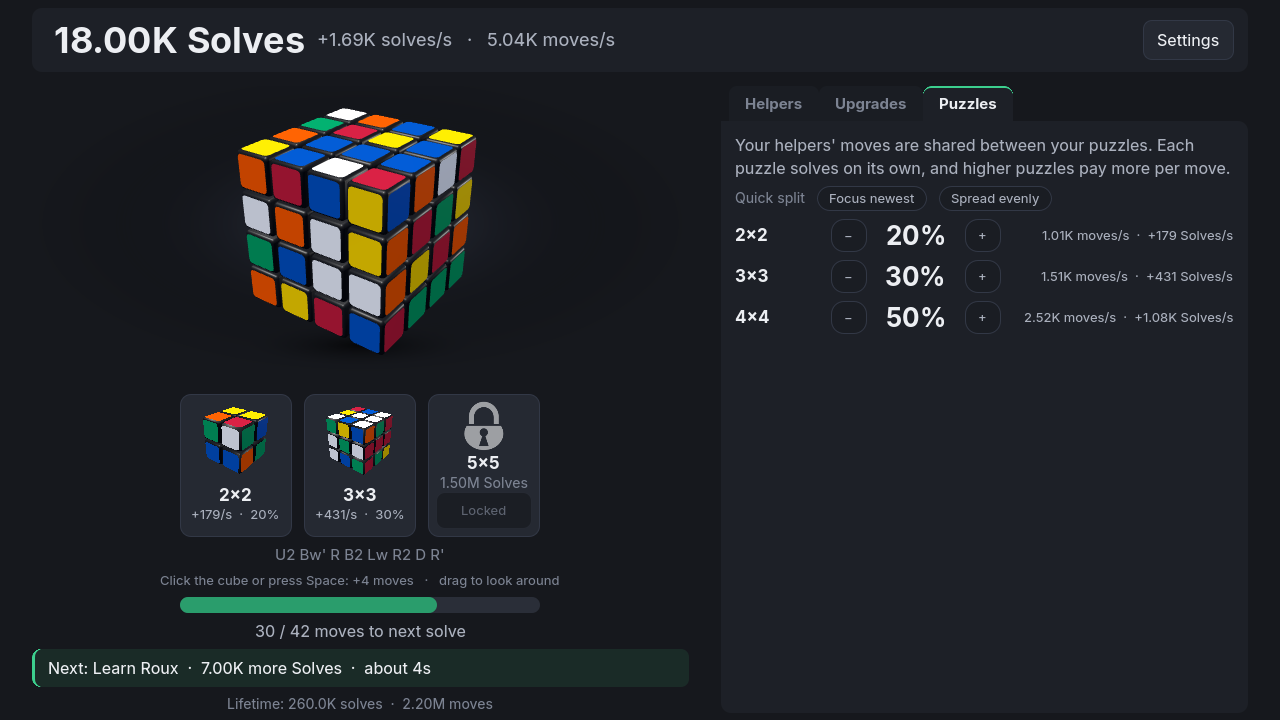
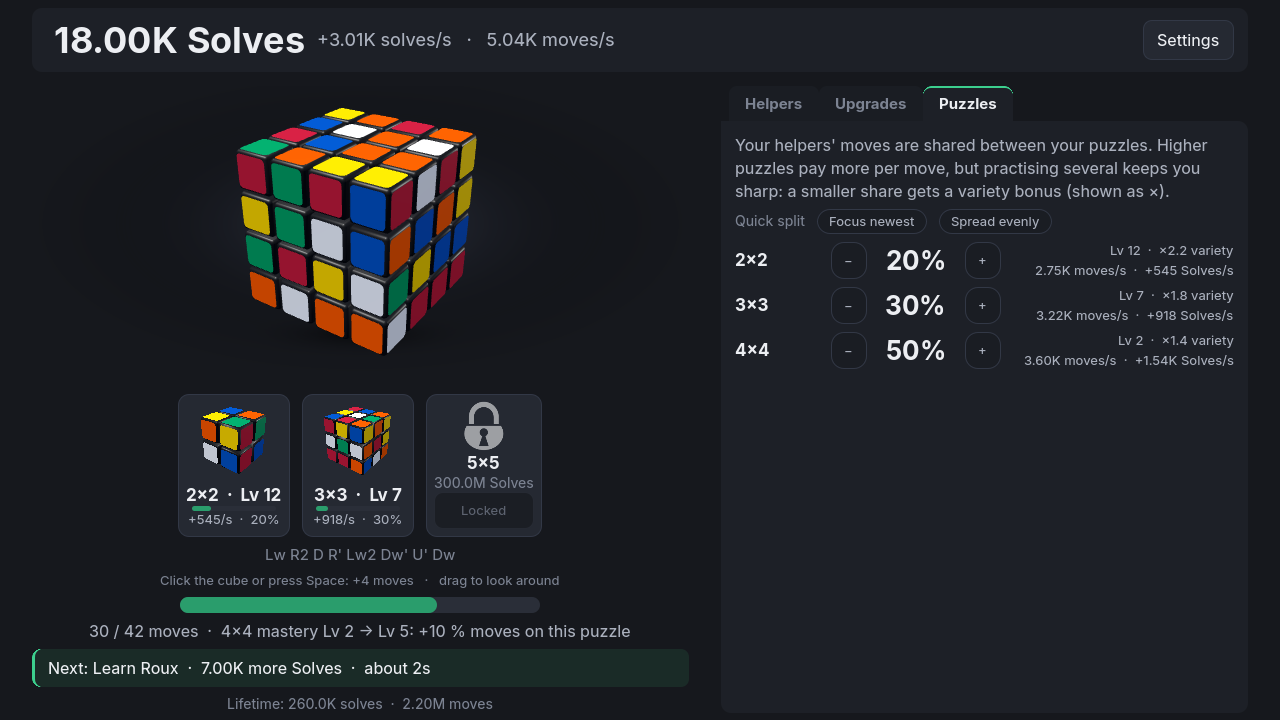
Task 4.7: variety bonus makes the split a real choice; early-game rebalance
- Content.VARIETY: a puzzle with share s gets s^0.5 of helper moves, so the
  best split is a mix; applied in add_helper_moves (frames and offline)
- Simulator chooses its split; checkpoints record it; split_mix pacing target
  passes (3x3 25 % / 4x4 50 % / 5x5 25 % at 30 min)
- Robot 1500, 4x4 400K, 5x5 300M: content lasts 26 min instead of 12
- Puzzles tab shows the variety bonus; long labels can no longer widen the page
- Phase 4 complete

Claude-Session: https://claude.ai/code/session_0116MGPNRCGwfWSA1yFC5ra1

diff --git a/docs/BALANCE.md b/docs/BALANCE.md
@@ -15,15 +15,16 @@ Checked by `test_pacing_targets` in `tests/test_runner.gd`. "Tapping" = 3.0 taps
 |---|---|---|
 | First helper ≤ 20 s | Cubing Friend at 0:13 | pass |
 | First upgrade < 1 min | Cube Lube at 0:48 | pass |
-| Something new every ≤ 3 min in the first hour | longest 42:05 (after 5×5, until 1:00:00) | expected failure |
+| Something new every ≤ 3 min in the first hour | longest 33:37 (after 5×5, until 1:00:00) | expected failure |
 | Something new every ≤ 10 min after the first hour | longest 1:00:00 (after 5×5, until 2:00:00) | expected failure |
-| 3×3 unlocked at ~5 min (4–6 min) | 4:38 | pass |
-| Solving Robot at ~10 min (8–12 min) | 7:15 | expected failure |
-| 4×4 unlocked at ~30 min (25–35 min) | 12:01 | expected failure |
-| 5×5 unlocked at ~60 min (50–70 min) | 17:55 | expected failure |
+| 3×3 unlocked at ~5 min (4–6 min) | 4:18 | pass |
+| Solving Robot at ~10 min (8–12 min) | 7:24 | expected failure |
+| 4×4 unlocked at ~30 min (25–35 min) | 11:19 | expected failure |
+| 5×5 unlocked at ~60 min (50–70 min) | 26:23 | expected failure |
 | First World Championship at ~90 min (80–100 min, D6) | never (in 2:00:00) | expected failure |
 | 7×7 in the 2nd–3rd run, Megaminx in the 4th–5th run | not measured: the simulator only plays one run (multi-run sim comes with 6.4) | expected failure |
 | Second run reaches the same point in ≤ 50 % of the time | not measured: the simulator only plays one run (multi-run sim comes with 6.4) | expected failure |
+| The bot's best split at 30 min is a real mix (no puzzle above 70 %) | 2×2 0 % · 3×3 25 % · 4×4 50 % · 5×5 25 % | pass |
 | Never tapping still buys something within 5 min | nothing bought in 2:00:00 | expected failure |
 
 ### Expected failures
@@ -43,9 +44,9 @@ Remove a target's `expected_failure` in `tools/pacing.gd` once it passes.
 
 ## Tapping (3 taps/s, 120 min)
 
-- Items bought: 343 (16 different)
-- Every helper and upgrade owned at: 17:55
-- Longest wait for something new: 1:42:05 (after 5×5, until 2:00:00)
+- Items bought: 453 (16 different)
+- Every helper and upgrade owned at: 26:23
+- Longest wait for something new: 1:33:37 (after 5×5, until 2:00:00)
 
 ### First purchase of each item
 
@@ -53,31 +54,31 @@ Remove a target's `expected_failure` in `tools/pacing.gd` once it passes.
 |---|---|---|---|---|
 | 0:13 | helper | Cubing Friend | 5 | +0:13 |
 | 0:48 | upgrade | Cube Lube | 15 | +0:34 |
-| 2:17 | helper | Cubing Club | 60 | +1:30 |
-| 3:30 | upgrade | Stackmat Timer | 50 | +1:13 |
-| 4:38 | puzzle | 3×3 | 150 | +1:08 |
-| 5:38 | upgrade | Learn CFOP | 200 | +0:59 |
-| 7:15 | helper | Solving Robot | 700 | +1:38 |
-| 7:42 | upgrade | Club Snacks | 600 | +0:27 |
-| 8:40 | upgrade | Magnetic Cube | 1.50K | +0:58 |
-| 10:28 | upgrade | Robot Firmware v2 | 8.00K | +1:48 |
-| 11:05 | helper | Local Competition | 9.00K | +0:37 |
-| 12:01 | puzzle | 4×4 | 25.00K | +0:56 |
-| 12:37 | upgrade | Learn Roux | 25.00K | +0:36 |
-| 13:42 | helper | Cube Factory | 120.0K | +1:05 |
-| 17:20 | helper | Speedcubing Lab | 1.80M | +3:38 |
-| 17:55 | puzzle | 5×5 | 1.50M | +0:35 |
+| 2:16 | helper | Cubing Club | 60 | +1:28 |
+| 3:20 | upgrade | Stackmat Timer | 50 | +1:05 |
+| 4:18 | puzzle | 3×3 | 150 | +0:57 |
+| 5:05 | upgrade | Learn CFOP | 200 | +0:47 |
+| 6:12 | upgrade | Club Snacks | 600 | +1:07 |
+| 6:58 | upgrade | Magnetic Cube | 1.50K | +0:46 |
+| 7:24 | helper | Solving Robot | 1.50K | +0:26 |
+| 8:14 | helper | Local Competition | 9.00K | +0:50 |
+| 9:05 | upgrade | Robot Firmware v2 | 8.00K | +0:51 |
+| 9:19 | upgrade | Learn Roux | 25.00K | +0:14 |
+| 10:00 | helper | Cube Factory | 120.0K | +0:41 |
+| 11:19 | puzzle | 4×4 | 400.0K | +1:20 |
+| 11:46 | helper | Speedcubing Lab | 1.80M | +0:26 |
+| 26:23 | puzzle | 5×5 | 300.0M | +14:37 |
 
 ### Income over time
 
-| Minute | Solves/s | Moves/s | Solves on hand | Lifetime Solves |
-|---|---|---|---|---|
-| 1 | 0.9 | 7 | 4 | 30 |
-| 5 | 5 | 25 | 65 | 536 |
-| 15 | 12.88K | 24.03K | 125.6K | 989.0K |
-| 30 | 689.5K | 926.7K | 17.43M | 305.9M |
-| 60 | 1.08M | 1.46M | 156.8M | 1.99B |
-| 120 | 1.36M | 1.82M | 71.28M | 6.45B |
+| Minute | Solves/s | Moves/s | Solves on hand | Lifetime Solves | Bot's split |
+|---|---|---|---|---|---|
+| 1 | 0.9 | 7 | 4 | 30 | 2×2 100 % |
+| 5 | 7.3 | 29 | 161 | 712 | 2×2 40 % · 3×3 60 % |
+| 15 | 1.81M | 803.4K | 7.34M | 192.0M | 2×2 10 % · 3×3 25 % · 4×4 65 % |
+| 30 | 9.53M | 1.74M | 235.9M | 5.43B | 2×2 0 % · 3×3 25 % · 4×4 50 % · 5×5 25 % |
+| 60 | 16.53M | 2.27M | 1.64B | 32.10B | 2×2 0 % · 3×3 15 % · 4×4 30 % · 5×5 55 % |
+| 120 | 18.91M | 2.60M | 3.93B | 96.53B | 2×2 0 % · 3×3 15 % · 4×4 30 % · 5×5 55 % |
 
 ## Never tapping (0 taps/s, 120 min)
 
@@ -91,11 +92,11 @@ Nothing was bought.
 
 ### Income over time
 
-| Minute | Solves/s | Moves/s | Solves on hand | Lifetime Solves |
-|---|---|---|---|---|
-| 1 | 0 | 0 | 0 | 0 |
-| 5 | 0 | 0 | 0 | 0 |
-| 15 | 0 | 0 | 0 | 0 |
-| 30 | 0 | 0 | 0 | 0 |
-| 60 | 0 | 0 | 0 | 0 |
-| 120 | 0 | 0 | 0 | 0 |
+| Minute | Solves/s | Moves/s | Solves on hand | Lifetime Solves | Bot's split |
+|---|---|---|---|---|---|
+| 1 | 0 | 0 | 0 | 0 | 2×2 100 % |
+| 5 | 0 | 0 | 0 | 0 | 2×2 100 % |
+| 15 | 0 | 0 | 0 | 0 | 2×2 100 % |
+| 30 | 0 | 0 | 0 | 0 | 2×2 100 % |
+| 60 | 0 | 0 | 0 | 0 | 2×2 100 % |
+| 120 | 0 | 0 | 0 | 0 | 2×2 100 % |

diff --git a/docs/CHANGELOG.md b/docs/CHANGELOG.md
@@ -2,6 +2,32 @@
 
 Newest first. Every session adds an entry: what changed, what's unfinished, notes for the next session.
 
+## 2026-11-03 — Task 4.7: early-game rebalance + the variety bonus (Phase 4 done)
+- **The design risk was real:** with linear income, "everything on the top puzzle" always won. Fixed with a
+  **variety bonus** (`Content.VARIETY`, exponent 0.5): a puzzle with share *s* gets *s*^0.5 of the helpers' moves. One puzzle is
+  unchanged; smaller shares are boosted (10 % → ×3.2), so the best split is a mix ∝ (Solves per move)², at any scale.
+  `GameState.add_helper_moves(seconds)` (used every frame and for offline progress) applies it; `add_moves(amount)` stays
+  the raw split for tests. `get_puzzle_variety_bonus(id)`. Taps aren't affected.
+  - First I tried an absolute "pace" per puzzle (moves beyond it counted for less). That failed: late-game helper output
+    swamps any fixed pace, so income only grew with √helpers, which fights exponential costs. Variety is relative, so it scales.
+- **The bot chooses its split:** `Simulator.choose_split()` sets each share ∝ value^(1/(1−e)), rounded to 5 %, every 30 sim
+  seconds and after unlocks; the value of a puzzle unlock is estimated with that split (cached for 15 s, since it's slow).
+  Checkpoints record the split; `BALANCE.md` shows it per checkpoint.
+- **New pacing target `split_mix`:** at 30 min the bot's split uses 2+ puzzles and none above 70 %. Result:
+  **3×3 25 % · 4×4 50 % · 5×5 25 %** ✓. Still passing: first helper 0:13 ✓, first upgrade 0:48 ✓, 3×3 4:18 ✓.
+- **Tuning** (data only): Solving Robot base cost 700 → 1,500; 4×4 unlock 25K → 400K; 5×5 unlock 1.5M → 300M. Before tuning,
+  variety + mastery finished all content at 12 min; now it's **26 min** (Robot 7:24, 4×4 11:19, 5×5 26:23). The Robot, 4×4
+  and 5×5 windows (and "something new every 3 min") stay expected failures: **Phase 5 adds the content** that lets the
+  first hour reach them (task 5.8). Income now explodes between minutes 5 and 15, then flattens when content runs out.
+- **UI:** the Puzzles tab explains the bonus and shows "Lv 12 · ×2.2 variety" over "2.75K moves/s · +545 Solves/s" per
+  puzzle. **Layout bug fixed:** long numbers widened the right column past the window; info lines and the progress line now
+  shorten with an ellipsis instead (`text_overrun_behavior`), and a test checks the page's minimum width stays ≤ 1280 px.
+  The progress line is shorter: "30 / 42 moves · 4×4 mastery Lv 2 → Lv 5: +10 % moves on this puzzle".
+- Tests: a single puzzle gets no bonus; 10 % gets ×10^0.5; `add_helper_moves` adds share^e; the bot's mix earns more than
+  focusing on the newest puzzle; the page-width guard. 1431 checks, `All good.` `docs/BALANCE.md` regenerated.
+- **Phase 4 is complete.** Owner: a good point to play: unlock puzzles, try the split and the presets, and watch mastery levels.
+- **Next:** Phase 5, task 5.1 (method chain).
+
 ## 2026-11-03 — Task 4.6: Puzzle Mastery (save v3)
 - **`Content.MASTERY`** (data): levels 1–100; level L → L+1 needs `25 × 1.15^(L−1)` XP; a solve gives `moves_per_solve ÷ 8` XP
   (so XP per move is equal on every puzzle: a 2×2 solve = 1 XP, a 4×4 solve = 7.5); +1 % moves on that puzzle per level.

diff --git a/docs/ROADMAP.md b/docs/ROADMAP.md
@@ -95,7 +95,7 @@ If a task is too big for one session, split it here (e.g. 1.3a / 1.3b) and do th
 - [x] **3.6 Offline panel:** a styled "Welcome back" panel (time away, Solves earned, a Collect button) replaces the default AcceptDialog.
       *Done when:* there's a screenshot, and there's no panel when nothing was earned.
 
-## Phase 4 — Puzzles (D9: all unlocked puzzles run at once)
+## Phase 4 — Puzzles (D9: all unlocked puzzles run at once) ✅
 - [x] **4.1 Puzzle data:** `Content.PUZZLES` (id, name, shape, `moves_per_solve`, `solve_value`, `unlock_cost`, `requires_prestige`)
       using the starting curve in PLAN §4.1, and each track linked to its puzzle.
       *Done when:* a test checks each puzzle earns more Solves per move than the one before it.
@@ -128,7 +128,7 @@ If a task is too big for one session, split it here (e.g. 1.3a / 1.3b) and do th
       with milestone perks at 5/10/25/50/100 (e.g. +10 % moves on that puzzle, −1 move per solve, +1 % all moves).
       Kept through prestige. A mastery bar on every puzzle in the row. Save change → bump the save version with a migration.
       *Done when:* tests cover XP gain, level-ups, perk effects and the migration, and mastery shows in a screenshot.
-- [ ] **4.7 Rebalance (early game):** tune puzzles, helpers and mastery with the simulator. The bot learns to choose a split.
+- [x] **4.7 Rebalance (early game):** tune puzzles, helpers and mastery with the simulator. The bot learns to choose a split.
       *Done when:* the first helper, first upgrade and 3×3 targets pass as real (not expected-failure) pacing tests, **and the
       bot's best split at 30 min is a real mix** (no puzzle above ~70 %), so splitting is a real choice (PLAN §4.1 design risk).
 

diff --git a/docs/PLAN.md b/docs/PLAN.md
@@ -107,8 +107,12 @@ For a specific task, replace the second sentence with e.g. "Do task 4.2."
 - **Helpers are one shared team, and the player splits its moves across puzzles** (e.g. 50 % 3×3, 30 % 4×4, 20 % 2×2),
   with quick presets (*Focus newest*, *Spread evenly*). A newly unlocked puzzle starts with everything moved onto it, so
   a player who never touches the split plays like the old ladder. Spreading is worth it because mastery (task 4.6),
-  achievements, competitions and collection drops are per puzzle. **Design risk:** if "everything on the top puzzle"
-  is always best, the split is a fake choice. The rebalance (4.7) must show the simulator's best split is a real mix.
+  achievements, competitions and collection drops are per puzzle.
+- **The variety bonus (task 4.7) makes the split a real choice.** A puzzle with share *s* of the helpers effectively
+  gets *s*^0.5 of their moves (`Content.VARIETY`): with one puzzle nothing changes, but smaller shares are boosted
+  ("practising several puzzles keeps you sharp"), so the best split is a mix: each puzzle's best share is proportional
+  to its (Solves per move)². The balance bot plays that split, and a pacing test checks that at 30 min no puzzle
+  has more than 70 %. *(This answers the old design risk: without it, "everything on the top puzzle" was always best.)*
 - **Taps go to the focused puzzle**, the big one on the stage.
 - **Screen:** one big 3D puzzle in focus, plus a row of small 3D puzzles under it, each turning at the speed of its own
   share and showing its solves/s. Clicking a small one brings it into focus. Unlocking a puzzle drops it into the row
